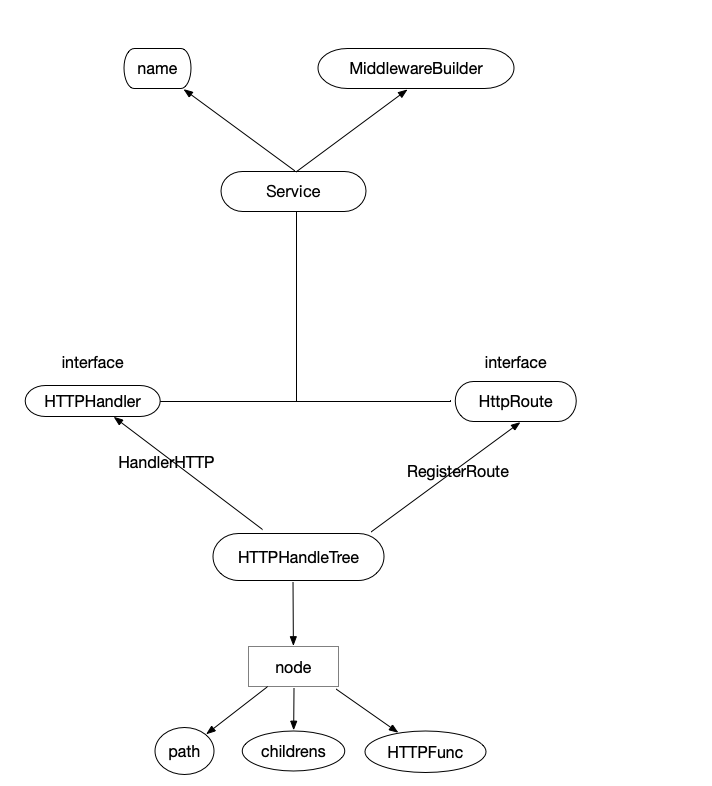
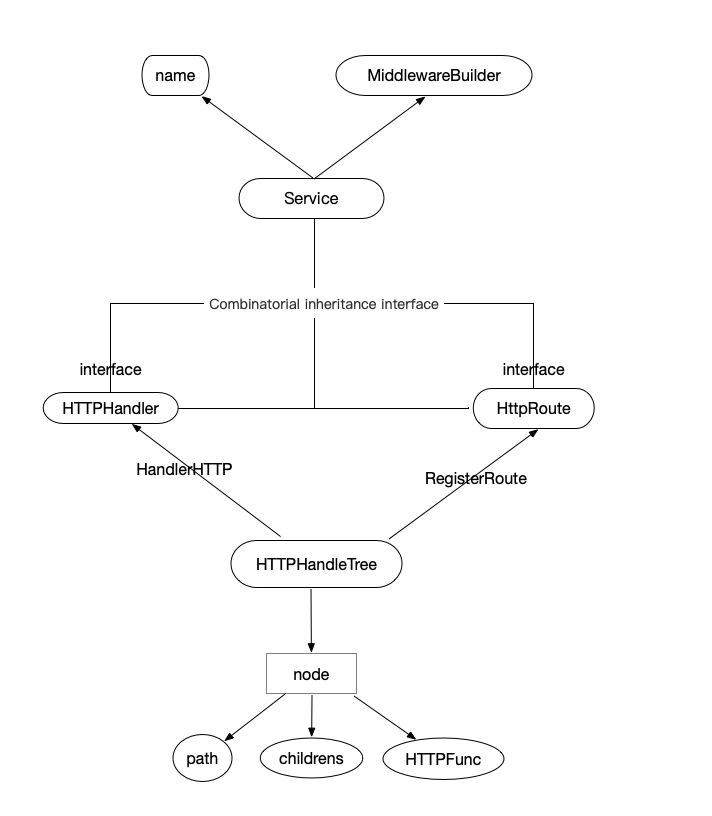
架构图更新

diff --git a/README.md b/README.md
@@ -8,4 +8,4 @@ Function directory：
 - Base Prefix Tree Route V1-Versions (Dim Static Matching)
 
 ## Architecture Diagram
-![img_1.png](img_1.png)
+![img.png](img.png)
